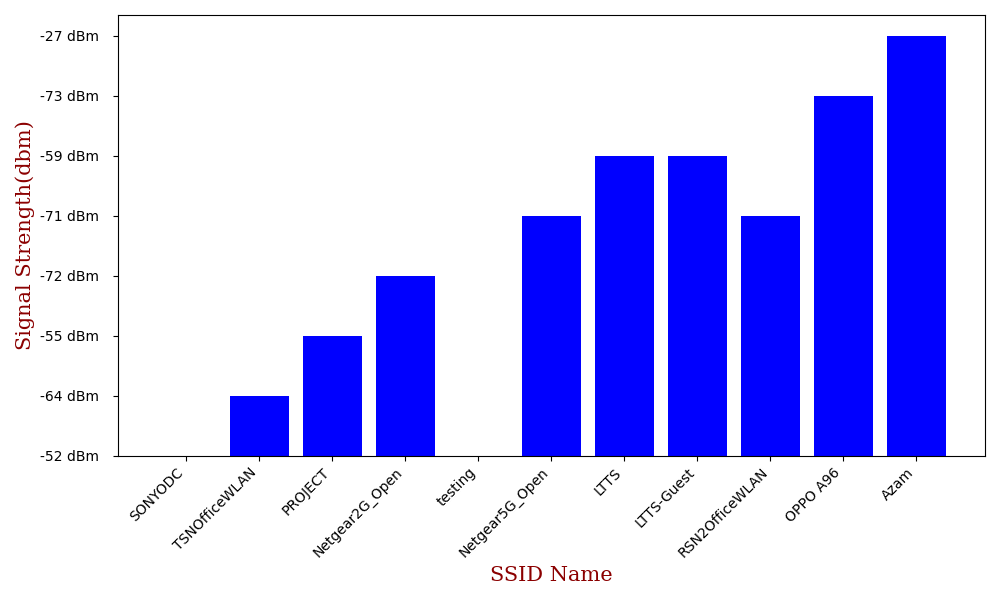
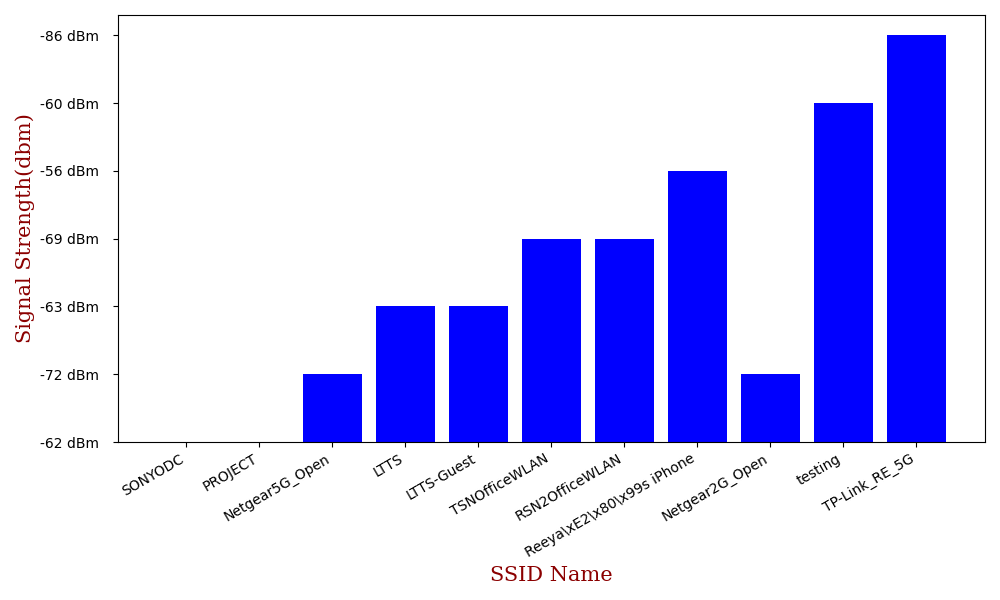
update

diff --git a/templates/index.html b/templates/index.html
@@ -16,9 +16,9 @@
             flex-direction: column;
             align-items: center;
             justify-content: center;
-            min-height: 75vh;
+            min-height: 25vh;
             margin: 0;
-	    font-family: 'Opens Sans',sans-serif;
+	  
         }
 
         form {
@@ -27,8 +27,8 @@
 
         .btn-group {
             display: flex;
-            gap: 20px;
-	    margin: 20px auto 40px;
+            gap: 60px;
+	    margin: 20px auto 20px;
         }
         .top-button {
                 
@@ -36,21 +36,21 @@
 		margin: 0px auto 0px;
             } 
 	.top-margin {
-		margin: 20px auto 20px;
+		margin: 10px auto 10px;
 	    }
 	h1 {
            margin: 0;
        }
 	h3 {
 	color: green;
-	margin-bottom: 40px;
+	margin-bottom: 10px;
 	}
      .header {
 	   color: black;
-	   padding: 10px;
+	   padding: 0px;
 	   text-align: center;
-	   border-radius: 30px;
-	   margin-bottom: 20px;
+	   border-radius: 0px;
+	   margin-bottom: 0px;
   	}
        a {
            text-decoration: none;
@@ -65,7 +65,7 @@
 	  padding: 30px auto 300px
       }
       .heading-2{
-	 margin: 60px auto 30px;
+	 margin: 10px auto 20px;
      }
      
      .btn-1{
@@ -74,21 +74,24 @@
       .btn-2{
 	 background-color:  #ffb6c1;
       }
-      
+      footer{
+	  margin: 0;
+	  padding: 0;
+      }
      
     </style>
 </head>
 <body>
   <div class="header">
     <h1>Welcome to Wi-Fi Analyzer Page</h1>
-    <P>A webpage for analysing Wi-Fi signals.</p>
+    <p>A webpage for analysing Wi-Fi signals.</p>
   </div>
     {% if message %}
         <h3>{{ message }}</h3>
     {% endif %}
     <div class="top-button">
-	<a href="/scan_wifi" class="btn btn-primary btn-lg btn-block top-margin">Scan Available Wi-Fi</a>
-        <a href="/plot" class="btn btn-info btn-lg btn-block top-margin">Available Wi-Fi Bar-Graph</a>
+	<a href="/scan_wifi" class="btn btn-primary btn-md btn-block top-margin">Scan Available Wi-Fi</a>
+        <a href="/plot" class="btn btn-info btn-md btn-block top-margin">Available Wi-Fi Bar-Graph</a>
       </div>   
   
    <form method="post">
@@ -107,13 +110,13 @@
     
 
 
-        <a href="/blocked_wifi" class="btn btn-dark btn-lg btn-block ">Blocked Wi-Fi List</a>
-	<a href="/reset" class="btn btn-danger btn-lg btn-block ">Remove All Blocked Wi-Fi</a>
-        <a href="/connect" class="btn btn-1 btn-lg btn-block ">Connect to a Wi-Fi</a>
-	<a href="/ping" class="btn btn-2 btn-lg btn-block ">Ping to a Host</a>
-	<a href="/speed_test" class="btn btn-primary btn-lg btn-block ">Intenet Speed Test</a>
+        <a href="/blocked_wifi" class="btn btn-dark btn-md btn-block ">Blocked Wi-Fi List</a>
+	<a href="/reset" class="btn btn-danger btn-md btn-block ">Remove All Blocked Wi-Fi</a>
+        <a href="/connect" class="btn btn-1 btn-md btn-block ">Connect to a Wi-Fi</a>
+	<a href="/ping" class="btn btn-2 btn-md btn-block ">Ping to a Host</a>
+	<a href="/speed_test" class="btn btn-primary btn-md btn-block ">Intenet Speed Test</a>
      <footer class="fixed-bottom text-center bg-light p-2">
-	<a href="/documentation" class="btn btn-primary">User Documentation</a>
+	<a href="/documentation" class="btn btn-sm btn-primary">User Documentation</a>
     </footer>
     <script src="https://cdn.jsdelivr.net/npm/bootstrap@5.3.0/dist/js/bootstrap.bundle.min.js"></script>
 </body>

diff --git a/templates/plot.html b/templates/plot.html
@@ -42,9 +42,9 @@
          <h1>Wi-Fi Signal Strengths Graph</h1>
          </div>
 
-      <img src="{{ url_for('static', filename='plot.png') }}" alt="wifi signal strengths">
+      <img src="{{ url_for('static', filename='plot.png') }}" alt="wifi signal strengths" width="800" height="500">
       <footer class="fixed-bottom text-center bg-light p-2">
-	<a href="/" class="btn btn-primary">Go to Main Page</a>
+	<a href="/" class="btn btn-sm btn-primary">Go to Main Page</a>
     </footer>
 <script src="https://cdn.jsdelivr.net/npm/bootstrap@5.3.0/dist/js/bootstrap.bundle.min.js"></script>
 </body>

diff --git a/templates/more_info.html b/templates/more_info.html
@@ -24,8 +24,8 @@
 	  {% for block in details %}
               <pre style="text-align:center">  {{ block }}</pre>
             {% endfor %}
-    <footer class="fixed-bottom text-center bg-light p-2">
-	<a href="/" class="btn btn-primary">Go to Main Page</a>
+    <footer class="text-center bg-light p-2">
+	<a href="/" class="btn btn-sm btn-primary">Go to Main Page</a>
     </footer>
      <script src="https://cdn.jsdelivr.net/npm/bootstrap@5.3.0/dist/js/bootstrap.bundle.min.js"></script>
      <script src="https://code.jquery.com/jquery-3.5.1.slim.min.js"></script>

diff --git a/templates/connect.html b/templates/connect.html
@@ -42,6 +42,11 @@
 	   border-radius: 60px;
 	   margin-bottom: 20px;
   	}
+	 .btn:hover {
+         color: #fff;
+	 background-color: #28a745;
+	 border-color: #28a745;
+      }
     </style>
 </head>
 <body>
@@ -64,7 +69,7 @@
     </div>
    </form>
    <footer class="fixed-bottom text-center bg-light p-2">
-	<a href="/" class="btn btn-primary">Go to Main Page</a>
+	<a href="/" class="btn btn-sm btn-primary">Go to Main Page</a>
     </footer>
     <script src="https://cdn.jsdelivr.net/npm/bootstrap@5.3.0/dist/js/bootstrap.bundle.min.js"></script>
 </body>

diff --git a/templates/ping.html b/templates/ping.html
@@ -51,7 +51,7 @@
 </head>
 <body>
   <div class="header">
-    <h1>Ping to an IP Address</h1>
+    <h1>Ping to a Host</h1>
    </div>
     {% if message %}
         <h3>{{ message }}</h3>
@@ -66,7 +66,7 @@
     </div>
    </form>
      <footer class="fixed-bottom text-center bg-light p-2">
-	<a href="/" class="btn btn-primary">Go to Main Page</a>
+	<a href="/" class="btn btn-sm btn-primary">Go to Main Page</a>
     </footer>
     <script src="https://cdn.jsdelivr.net/npm/bootstrap@5.3.0/dist/js/bootstrap.bundle.min.js"></script>
 </body>

diff --git a/templates/scan_wifi.html b/templates/scan_wifi.html
@@ -60,8 +60,8 @@
             {% endfor %}
         </tbody>
     </table>
-    <footer class="fixed-bottom text-center bg-light p-2">
-	<a href="/" class="btn btn-primary">Go to Main Page</a>
+    <footer class="text-center bg-light p-2">
+	<a href="/" class="btn btn-sm btn-primary">Go to Main Page</a>
     </footer>
      <script src="https://cdn.jsdelivr.net/npm/bootstrap@5.3.0/dist/js/bootstrap.bundle.min.js"></script>
 </body>

diff --git a/templates/blocked_wifi.html b/templates/blocked_wifi.html
@@ -55,7 +55,7 @@
         </tbody>
     </table>
     <footer class="fixed-bottom text-center bg-light p-2">
-	<a href="/" class="btn btn-primary">Go to Main Page</a>
+	<a href="/" class="btn btn-sm btn-primary">Go to Main Page</a>
     </footer>
      <script src="https://cdn.jsdelivr.net/npm/bootstrap@5.3.0/dist/js/bootstrap.bundle.min.js"></script>
      <script src="https://code.jquery.com/jquery-3.5.1.slim.min.js"></script>

diff --git a/templates/documentation.html b/templates/documentation.html
@@ -158,7 +158,7 @@
         </div>
     </div>
 </div>
-  <footer class="fixed-bottom text-center bg-light p-2">
+  <footer class="text-center bg-light p-2">
 	<a href="/" class="btn btn-primary">Go to Main Page</a>
     </footer>
 <script src="https://code.jquery.com/jquery-3.5.1.slim.min.js" integrity="sha384-DfXdz2htPH0lsSSs5nCTpuj/zy4C+OGpamoFVy38MVBnE+IbbVYUew+OrCXaRkfj"

diff --git a/templates/speed.html b/templates/speed.html
@@ -55,7 +55,7 @@
 	{% endif %}
      
       <footer class="fixed-bottom text-center bg-light p-2">
-	<a href="/" class="btn btn-primary">Go to Main Page</a>
+	<a href="/" class="btn btn-sm btn-primary">Go to Main Page</a>
     </footer>
 <script src="https://cdn.jsdelivr.net/npm/bootstrap@5.3.0/dist/js/bootstrap.bundle.min.js"></script>
 </body>

diff --git a/updated_wifi.py b/updated_wifi.py
@@ -88,7 +88,7 @@ def plot_function():
 	plt.xlabel('SSID Name',fontdict=font1)
 	plt.ylabel('Signal Strength(dbm)',fontdict=font1)
 	
-	plt.xticks(rotation=45,ha='right')
+	plt.xticks(rotation=30,ha='right')
 	plt.tight_layout()
 	path = os.path.join('static','plot.png')
 	plt.savefig(path)
@@ -207,7 +207,7 @@ def ping_to_input_ip():
 		l_percent = (l_packet/9)*100
 		x_axis = [1,2,3,4,5,6,7,8,9]
 		d = {'Target host':ip, 'Average ping':avg_time,'Minimum ping':min_time,'Maximum ping':max_time,'Packet loss':l_percent}
-		plt.plot(x_axis,l,color='blue',marker='o')
+		plt.plot(l,color='blue',marker='o')
 		#plt.xticks([])
 		font1 = {'family':'serif','color':'darkred','size':15}
 		plt.xlabel('Ping Number',fontdict = font1)
